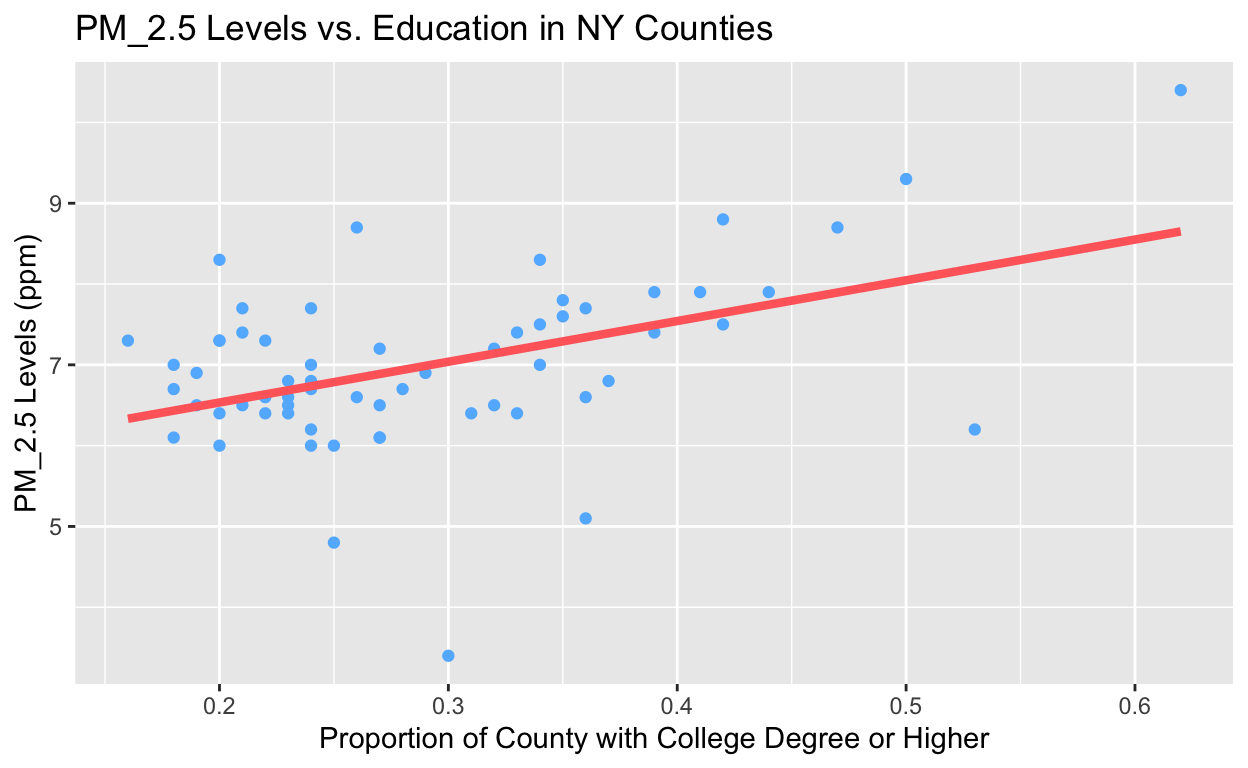
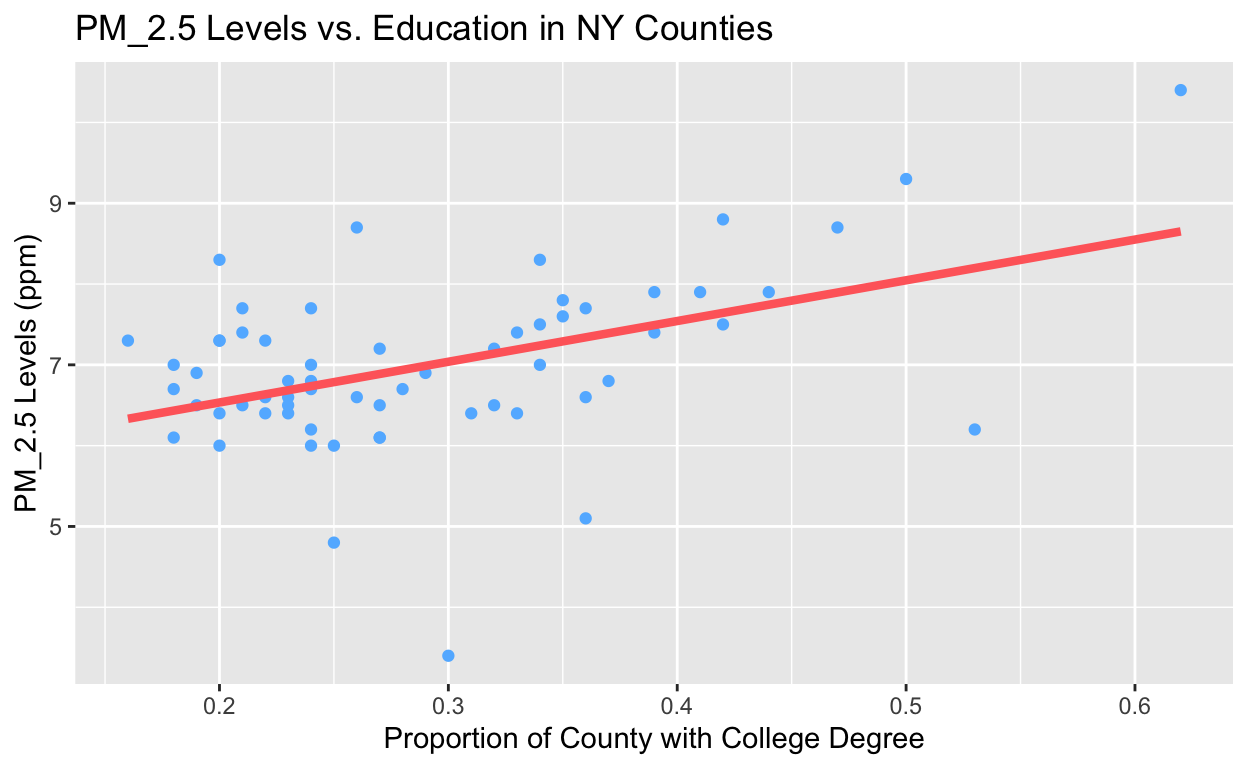
final edits

Changed region(s): [[0.25, 0.9375, 0.7812, 1.0]]

diff --git a/index.html b/index.html
@@ -1520,19 +1520,20 @@ code span.wa { color: #5e5e5e; font-style: italic; } /* Warning */
 
 <div class="d-article">
 <h2 id="introduction">Introduction</h2>
-<p>Environmental issues are increasingly becoming important topics in politics, business, education, and everyday life. One such environmental issue is air pollution, which poses extreme risks to human health, biodiversity, entire ecosystems, and the normal functions of the planet. Their causes are important to understand, as human activities and systems are a major contributor to worsening climate conditions and changes. Which leads to the central research question of this project: Do different socioeconomic factors like unemployment rates, median household income, education levels, poverty, and population density impact levels of air pollution? Which of these factors, if any, impacts air pollution the most? To analyze these relationships, I will be examining data from the 62 counties of New York State. I hypothesize that there will be correlations between these variables and air pollution levels.</p>
+<p>Environmental issues are becoming increasingly important topics in politics, business, education, and everyday life. One such environmental issue is air pollution, which poses extreme risks to human health, biodiversity, entire ecosystems, and the normal functions of the planet. Its causes are important to understand, as human activities and systems are a major contributor to worsening climate conditions and changes. This leads to the central research question of this project: Do different socioeconomic factors like unemployment rates, median household income, education levels, poverty, and population density impact levels of air pollution? Which of these factors, if any, impacts air pollution the most? To analyze these relationships, I will be examining data from the 62 counties of New York State. PM_2.5 is the air pollutant that will be used in this study. I hypothesize that there will be positive correlations between median household income, educational levels, and population density and PM_2.5 levels. I also hypothesize that there will be negative correlations between unemployment rates, poverty and PM_2.5 levels.</p>
 <h2 id="description-of-data">Description of Data</h2>
 <p>My final dataset, called finalData, is composed of data taken from the <a href="https://www.osc.state.ny.us/local-government/data">Office of the New York State Comptroller Website</a> and the <a href="https://www.epa.gov/">Environmental Protection Agency’s Website</a>, and displays the following variables for the year 2021.</p>
 <ol type="1">
-<li>County = Full county name.</li>
-<li>Unemployment = Percentage of county that is unemployed.</li>
-<li>MedianIncome = The median household income for the entire county, in dollars.</li>
-<li>CollegeDegree = The proportion of the population that holds a college-level degree or higher.</li>
-<li>PM_2.5 = The level of fine particles with diameters of less than 2.5 micrometers in parts per million (ppm). PM_2.5 is a common air pollutant.</li>
-<li>Poverty = The percentage of the population of the county that is in poverty.</li>
-<li>PopDensity = The population density of the county, measured in persons per square mile.</li>
+<li>County = Full county name</li>
+<li>Unemployment = Percentage of county that is unemployed</li>
+<li>MedianIncome = The median household income for the entire county, in dollars</li>
+<li>CollegeDegree = The proportion of the population that holds a college-level degree<br />
+</li>
+<li>PM_2.5 = The level of fine particles with diameters of less than 2.5 micrometers, measured in parts per million (ppm)</li>
+<li>Poverty = The percentage of the population of the county that is below the poverty line</li>
+<li>PopDensity = The population density of the county, measured in persons per square mile</li>
 </ol>
-<p>This data represents an observational study. This means that no treatment was given to any place or person, and thus data was collected through observation only. This is a cross sectional-research design, because it is taking data from one point in time, the year 2021, for a defined population of New York State. There are 62 counties total, and the dataset is not missing any values.</p>
+<p>This data represents an observational study. This means that no treatment was given to any place or person. Thus, data was collected through observation only. This is a cross sectional-research design, because it is taking data from one point in time, the year 2021, for a defined population of New York State. There are 62 counties total, and the dataset is not missing any values.</p>
 <h3 id="visualizing-air-pollution-levels">Visualizing Air Pollution Levels</h3>
 <div class="layout-chunk" data-layout="l-body">
 <div class="sourceCode">
@@ -1580,7 +1581,7 @@ code span.wa { color: #5e5e5e; font-style: italic; } /* Warning */
 <div class="sourceCode">
 <pre class="sourceCode r"><code class="sourceCode r"><span><span class='co'>## Population density regression</span></span>
 <span></span>
-<span><span class='va'>pop_reg</span> <span class='op'>&lt;-</span> <span class='fu'><a href='https://rdrr.io/r/stats/lm.html'>lm</a></span><span class='op'>(</span><span class='va'>PM</span> <span class='op'>~</span> <span class='va'>PopDensity</span>, data <span class='op'>=</span> <span class='va'>finalData</span><span class='op'>)</span></span>
+<span><span class='va'>pop_reg</span> <span class='op'>&lt;-</span> <span class='fu'><a href='https://rdrr.io/r/stats/lm.html'>lm</a></span><span class='op'>(</span><span class='va'>PM</span> <span class='op'>~</span> <span class='va'>PopDensity</span>, data <span class='op'>=</span> <span class='va'>finalData</span><span class='op'>)</span> </span>
 <span><span class='va'>pop_reg</span></span></code></pre>
 </div>
 <pre><code>
@@ -1597,7 +1598,7 @@ Coefficients:
 </div>
 <pre><code>[1] 0.5197903</code></pre>
 </div>
-<p>The graph indicates a positive correlation between Population Density and PM_2.5 levels. This can be seen through the line of best fit, represented by the red line. Generally, as population density increases, PM_2.5 levels also increase. The regression results further support this observation. The coefficient for this regression is 4.932e-05 (or 0.00004932). This means that as population density increases by 1 unit (1 person per square mile), PM_2.5 levels increase by 4.932e-05 ppm. This number is small, but because there is such a large range in population density, such a number is expected. Finally, the correlation coefficient (a measure of the strength of a relationship between two variables) between the two variables was 0.520, which indicates a moderately strong association between the two variables.</p>
+<p>The graph indicates a positive correlation between Population Density and PM_2.5 levels. This can be seen through the line of best fit, represented by the red line. Generally, as population density increases, PM_2.5 levels also increase. The regression results further support this observation. The coefficient for this regression is 4.932e-05 (or about 0.00005). This means that as population density increases by 1 unit (1 person per square mile), PM_2.5 levels increase by 0.00005 ppm. This number is small, but because there is such a large range in population density, such a number is expected. Finally, the correlation coefficient (a measure of the strength of a relationship between two variables) between the two variables was about 0.520, which indicates a moderately strong association between the two variables.</p>
 <h3 id="pm_2.5-and-unemployment">PM_2.5 and Unemployment</h3>
 <div class="layout-chunk" data-layout="l-body">
 <div class="sourceCode">
@@ -1634,8 +1635,8 @@ Coefficients:
 </div>
 <pre><code>[1] 0.3437842</code></pre>
 </div>
-<p>From the graph, there seems to be a positive correlation between Unemployment and PM_2.5 levels. This can be seen through the line of best fit. Generally, as unemployment levels increase, PM_2.5 levels also increase. The regression further supports this observation. The coefficient for this regression is about 0.227, which means that as unemployment increases by 1 unit (1 percent), PM_2.5 levels increase by 0.227 ppm. However, the correlation coefficient between the two variables is about 0.344, which indicates a weak association between the two variables. This reflects a weak strength to the relationship between Unemployment and PM_2.5.</p>
-<h3 id="pm_2.5-and-median-income">PM_2.5 and Median Income</h3>
+<p>From the graph, there seems to be a positive correlation between Unemployment and PM_2.5 levels. This can be seen through the line of best fit. Generally, as unemployment levels increase, PM_2.5 levels also increase. The regression further supports this observation. The coefficient for this regression is about 0.227, which means that as unemployment increases by 1 unit (1 percent level), PM_2.5 levels increase by 0.227 ppm. However, the correlation coefficient between the two variables is about 0.344, which indicates a weak association between the two variables. This reflects a weak strength to the relationship between Unemployment and PM_2.5.</p>
+<h3 id="pm_2.5-and-median-household-income">PM_2.5 and Median Household Income</h3>
 <div class="layout-chunk" data-layout="l-body">
 <div class="sourceCode">
 <pre class="sourceCode r"><code class="sourceCode r"><span><span class='co'>## Median Income graph</span></span>
@@ -1671,7 +1672,7 @@ Coefficients:
 </div>
 <pre><code>[1] 0.2532647</code></pre>
 </div>
-<p>From the line of best fit, there seems to be a positive relationship between Median Household Income and PM_2.5 levels. Generally, as Median Household Income increases, PM_2.5 levels tend to increase. Though, the strength relationship does not appear to as strong as the relationships for Population Density and Unemployment. The coefficient for the regression is 2.578e-05 or (0.00002578), which means that as Median Household Income increases by 1 unit (1 dollar), PM_2.5 levels increase by 2.578e-05 ppm. This number is small, but this was expected due to the large range in values for Median Household Income, in a similar way to Population Density. Finally, the correlation coefficient between Median Household Income and PM_2.5 levels was about 0.253, which indicates a weak strength of relationship, supporting the earlier conclusion.</p>
+<p>From the line of best fit, there seems to be a positive relationship between Median Household Income and PM_2.5 levels. Generally, as Median Household Income increases, PM_2.5 levels tend to increase. Though, the relationship’s strength does not appear to as strong as the relationships for Population Density and Unemployment. The coefficient for the regression is 2.578e-05 (or about 0.00003), which means that as Median Household Income increases by 1 unit (1 dollar), PM_2.5 levels increase by 0.00003 ppm. This number is small, but this was expected due to the large range in values for Median Household Income, in a similar way to Population Density. Finally, the correlation coefficient between Median Household Income and PM_2.5 levels was about 0.253, which indicates a weak strength of relationship, supporting the earlier conclusion.</p>
 <h3 id="pm_2.5-and-education">PM_2.5 and Education</h3>
 <div class="layout-chunk" data-layout="l-body">
 <div class="sourceCode">
@@ -1683,7 +1684,7 @@ Coefficients:
 <span>  <span class='fu'><a href='https://ggplot2.tidyverse.org/reference/geom_point.html'>geom_point</a></span><span class='op'>(</span>color <span class='op'>=</span> <span class='st'>"steelblue1"</span><span class='op'>)</span> <span class='op'>+</span></span>
 <span>  <span class='fu'><a href='https://ggplot2.tidyverse.org/reference/geom_smooth.html'>geom_smooth</a></span><span class='op'>(</span>method <span class='op'>=</span> <span class='st'>"lm"</span>, se <span class='op'>=</span> <span class='cn'>FALSE</span>, </span>
 <span>              color <span class='op'>=</span> <span class='st'>"indianred1"</span>, size <span class='op'>=</span> <span class='fl'>1.5</span><span class='op'>)</span> <span class='op'>+</span></span>
-<span>  <span class='fu'><a href='https://ggplot2.tidyverse.org/reference/labs.html'>labs</a></span><span class='op'>(</span>x <span class='op'>=</span> <span class='st'>"Proportion of County with College Degree or Higher"</span>,</span>
+<span>  <span class='fu'><a href='https://ggplot2.tidyverse.org/reference/labs.html'>labs</a></span><span class='op'>(</span>x <span class='op'>=</span> <span class='st'>"Proportion of County with College Degree"</span>,</span>
 <span>       y <span class='op'>=</span> <span class='st'>"PM_2.5 Levels (ppm)"</span>,</span>
 <span>       title <span class='op'>=</span> <span class='st'>"PM_2.5 Levels vs. Education in NY Counties"</span><span class='op'>)</span></span></code></pre>
 </div>
@@ -1691,7 +1692,7 @@ Coefficients:
 <div class="sourceCode">
 <pre class="sourceCode r"><code class="sourceCode r"><span><span class='co'>## Education regression</span></span>
 <span></span>
-<span><span class='va'>income_reg</span> <span class='op'>&lt;-</span> <span class='fu'><a href='https://rdrr.io/r/stats/lm.html'>lm</a></span><span class='op'>(</span><span class='va'>PM</span> <span class='op'>~</span> <span class='va'>CollegeDegree</span>, data <span class='op'>=</span> <span class='va'>finalData</span><span class='op'>)</span></span>
+<span><span class='va'>income_reg</span> <span class='op'>&lt;-</span> <span class='fu'><a href='https://rdrr.io/r/stats/lm.html'>lm</a></span><span class='op'>(</span><span class='va'>PM</span> <span class='op'>~</span> <span class='va'>CollegeDegree</span>, data <span class='op'>=</span> <span class='va'>finalData</span><span class='op'>)</span> </span>
 <span><span class='va'>income_reg</span></span></code></pre>
 </div>
 <pre><code>
@@ -1708,7 +1709,7 @@ Coefficients:
 </div>
 <pre><code>[1] 0.4575398</code></pre>
 </div>
-<p>From the line of best fit, there appears to be a positive relationship between Education levels and PM_2.5 levels. That is, as the proportion of a county with a college degree or higher increases, PM_2.5 levels tend to increase. The regression supports this observation, as the regression coefficient is 5.040. This means that as Education increases by 1 unit (1 additional percentage of the county with a college degree or higher), PM_2.5 levels increase by 5.040 ppm. Finally, the correlation coefficient between the two variables is about 0.458 which indicated a moderately strong relationship between them.</p>
+<p>From the line of best fit, there appears to be a positive relationship between Education levels and PM_2.5 levels. That is, as the proportion of a county with a college degree increases, PM_2.5 levels tend to increase. The regression supports this observation, as the regression coefficient is 5.040. This means that as Education increases by 1 unit (1 additional percentage level of the county with a college degree), PM_2.5 levels increase by 5.040 ppm. Finally, the correlation coefficient between the two variables is about 0.458, which indicates a moderately strong relationship between them.</p>
 <h3 id="pm_2.5-and-poverty">PM_2.5 and Poverty</h3>
 <div class="layout-chunk" data-layout="l-body">
 <div class="sourceCode">
@@ -1745,7 +1746,7 @@ Coefficients:
 </div>
 <pre><code>[1] 0.08537905</code></pre>
 </div>
-<p>From the nearly horizontal line of best fit, there appears to be little correlation between Poverty and PM_2.5 levels, especially in comparison to the other variables. That is, an increase in poverty levels is not really associated with any change in PM_2.5 levels. However, there does appear to be a very minor positive relationship. The regression coefficient supports this observation, as it is 0.028. This means that as Poverty increases by 1 unit (1 additional percentage of the county below the poverty line), PM_2.5 levels increase by 0.028 ppm. Finally, the correlation coefficient between the two variables is about 0.085, which indicates a very weak association between them. This is the smallest correlation coefficient out of all of the relationships analyzed so far.</p>
+<p>From the nearly horizontal line of best fit, there appears to be little correlation between Poverty and PM_2.5 levels, especially in comparison to the other variables. That is, an increase in poverty levels is not really associated with any change in PM_2.5 levels. However, there does appear to be a very minor positive relationship. The regression coefficient supports this observation, as it is about 0.029. This means that as Poverty increases by 1 unit (1 additional percentage level of the county below the poverty line), PM_2.5 levels increase by 0.029 ppm. Finally, the correlation coefficient between the two variables is about 0.085, which indicates a very weak association between them. This is the smallest correlation coefficient out of all of the relationships analyzed so far.</p>
 <h3 id="multiple-regression">Multiple Regression</h3>
 <div class="layout-chunk" data-layout="l-body">
 <div class="sourceCode">
@@ -1771,7 +1772,7 @@ Coefficients:
 </div>
 <pre><code>
 The downloaded binary packages are in
-    /var/folders/2d/6f7wkb7x34qb945g_vvn025m0000gn/T//RtmprbgIaJ/downloaded_packages</code></pre>
+    /var/folders/2d/6f7wkb7x34qb945g_vvn025m0000gn/T//Rtmp6wjJAG/downloaded_packages</code></pre>
 <div class="sourceCode">
 <pre class="sourceCode r"><code class="sourceCode r"><span><span class='kw'><a href='https://rdrr.io/r/base/library.html'>library</a></span><span class='op'>(</span><span class='va'><a href='https://vincentarelbundock.github.io/modelsummary/'>modelsummary</a></span><span class='op'>)</span></span>
 <span></span>
@@ -1951,15 +1952,15 @@ R2 Adj.
 </table>
 </div>
 <p>The multiple regression here analyzes the strength of the relationship between PM_2.5 levels and each variable, taking into account the effects of the other variables on one particular variable. Our previous regressions examined the relationship between one variable and PM_2.5 levels without taking into account how other variables might impact the strength of the relationship.</p>
-<p>The coefficient for the unemployment variable in the multiple regression was 0.119. This means that a one-percentage increase in the county’s unemployed population corresponds with an increase of 0.119 ppm of PM_2.5 levels. The singular regression from earlier had a coefficient of 0.227. While still a positive relationship, with the other variables taken into account, the multiple regression shows a decreased impact of unemployment on PM_2.5 levels.</p>
+<p>The coefficient for the unemployment variable in the multiple regression was 0.119. This means that a one-percentage level increase in the county’s unemployed population corresponds with an increase of 0.119 ppm of PM_2.5 levels. The singular regression from earlier had a coefficient of 0.227. While still a positive relationship, with the other variables taken into account, the multiple regression shows a decreased impact of unemployment on PM_2.5 levels.</p>
 <p>The coefficient for the Median Household Income variable is about 0.000002. This means that a one-dollar increase in the median household income corresponds with an increase of 0.000002 ppm of PM_2.5 levels. The singular regression from earlier had a coefficient of about 0.00003. Similar to unemployment, the multiple regression shows a decreased impact of median household income on PM_2.5 levels. The relationship is still positive, though.</p>
-<p>The coefficient for the CollegeDegree variable is about 3.483. This means that a one-percentage increase in the percentage of a county with a college-degree or higher corresponds with an increase of about 3.483 ppm of PM_2.5 levels. The singular regression from earlier had a coefficient of about 5.040. Similar to unemployment and median household income, the multiple regression shows a decreased impact of CollegeDegree on PM_2.5 levels. The relationship is still positive.</p>
-<p>The coefficient for the poverty variable is about -0.020. This means that a one-percentage increase in the percentage of a county below the poverty line is associated with a decrease of about 0.020 ppm of PM_2.5 levels. The regression from earlier had a coefficient of about 0.028. This is a change in both degree of impact but also direction of relationship. The singular regression had a positive relationship, but the multiple regression shows a negative relationship.</p>
-<p>The coefficient for the Population Density variable is about 0.0003. This means that a one-unit increase in population density is associated with an increase of about 0.00004 ppm of PM_2.5 levels. The regression from earlier had a coefficient of about 0.00005. Similar to the other variables, the multiple regression shows a decreased, but still positive impact of population density on PM_2.5 levels.</p>
-<p>The p-values calculated by the multiple regression represent the probability of obtaining the coefficient, assuming the null hypothesis (that there is no correlation between the variables). In other words, the larger the p-value, the greater the chance of observing no correlation between the variables. And thus, a lower p-value represents greater statistical significance. That is, a greater chance of the coefficients representing the existence of a relationship. The p values for each variable are as follows: unemployment (0.305), MedianIncome (0.883), CollegeDegree (0.034), poverty (0.679), and PopDensity (0.147). From these p-values, we can see that the the order of most to least statistical significance is CollegeDegree, PopDensity, unemployment, poverty, and MedianIncome.</p>
-<p>I would greatly caution against interpreting any of the coefficients as representing a causal effect. There are many other variables to account for that are not in this data set. For example, nearby factories, differences in geographical regions, or variation between seasons. These factors are all potential confounders, meaning that they could impact the data that we currently have. However, the factors analyzed are all important factors to analyze their correlations with air pollution levels.</p>
+<p>The coefficient for the CollegeDegree variable is about 3.483. This means that a one-percentage level increase in the percentage of a county with a college-degree corresponds with an increase of about 3.483 ppm of PM_2.5 levels. The singular regression from earlier had a coefficient of about 5.040. Similar to unemployment and median household income, the multiple regression shows a decreased impact of CollegeDegree on PM_2.5 levels. The relationship is still positive.</p>
+<p>The coefficient for the poverty variable is about -0.020. This means that a one-percentage level increase in the percentage of a county below the poverty line is associated with a decrease of about 0.020 ppm of PM_2.5 levels. The regression from earlier had a coefficient of about 0.029. This is a change in both degree of impact but also direction of relationship. The singular regression had a positive relationship, but the multiple regression shows a negative relationship.</p>
+<p>The coefficient for the Population Density variable is about 0.0003. This means that a one-unit increase in population density is associated with an increase of about 0.00003 ppm of PM_2.5 levels. The regression from earlier had a coefficient of about 0.00005. Similar to the other variables, the multiple regression shows a decreased, but still positive impact of population density on PM_2.5 levels.</p>
+<p>The p-values calculated by the multiple regression represent the probability of obtaining the coefficient, assuming the null hypothesis (that there is no correlation between the variables). The larger the p-value, the greater the chance of observing no correlation between the variables. Thus, a lower p-value represents greater statistical significance, indicative of a greater chance of the coefficients representing the existence of a relationship. The p-values for each variable are as follows: unemployment (0.305), MedianIncome (0.883), CollegeDegree (0.034), poverty (0.679), and PopDensity (0.147). From these p-values, we can see that the the order of most to least statistical significance is CollegeDegree, PopDensity, unemployment, poverty, and MedianIncome.</p>
+<p>I would greatly caution against interpreting any of the coefficients as representing a causal effect. There are many other variables to account for that are not in this data set. For example, nearby factories, differences in geographical regions, or variation between seasons, among others. These factors are all potential confounders, meaning that they could impact the data that we currently have. However, the factors’ correlations with air pollution levels analyzed in this study are all important factors to analyze.</p>
 <h2 id="conclusion">Conclusion</h2>
-<p>The results of the analyses suggest the following: a positive impact of unemployment, median household income, education, and population density on PM_2.5 levels. They suggest a negative impact of poverty on PM_2.5 levels. These observations support my hypothesis. The most statistically significant results are CollegeDegree and Population Density, while the least statistically significant results are poverty and MedianIncome. Unemployment is in the middle. There are a number of potential limitations to this study. For example, a smaller sample size of counties was used than available - a future study could incorporate counties from all over the country. A future dataset could also include other air pollutants to either corroborate or contradict observed results, or additional years. Another limitation of the study is the amount of factors included, and that some excluded factors could be potential confounders - a future study could incorporate different factors like proximity to factories, local legislation that could impact pollution levels, etc. An observational study had to be used and thus cannot control for confounders as well as an experimental study. However, an experimental study testing air pollution levels would be extremely unethical, so future studies should attempt to account for as many confounders as possible. Overall, the analyses of this project support the conclusions that these factors are correlated with air pollution in some way. However, it is extremely risky to assume causality.</p>
+<p>The results of the analyses suggest the following: a positive impact of unemployment, median household income, education, and population density on PM_2.5 levels. They suggest a negative impact of poverty on PM_2.5 levels. These observations support my hypotheses for median household income, education, population density, and poverty. However, they disprove my hypothesis for unemployment. The most statistically significant results are CollegeDegree and Population Density, while the least statistically significant results are poverty and MedianIncome. Unemployment is in the middle. There are a number of potential limitations to this study. For example, a smaller sample size of counties was used than available - a future study could incorporate counties from all over the country. A future dataset could also include other air pollutants to either corroborate or contradict observed results. It could also include additional years. Another limitation of the study is the amount of factors included, and that some excluded factors could be potential confounders. A future study could incorporate different factors like proximity to factories, local legislation that could impact pollution levels, etc. An observational study had to be used and thus cannot control for confounders as well as an experimental study. However, an experimental study testing air pollution levels would be extremely unethical, so future observational studies should attempt to account for as many confounders as possible. Overall, the analyses of this project support the conclusions that these factors are correlated with air pollution in some way. However, it is extremely risky to assume causality.</p>
 <div class="sourceCode" id="cb13"><pre class="sourceCode r distill-force-highlighting-css"><code class="sourceCode r"></code></pre></div>
 <!--radix_placeholder_article_footer-->
 <!--/radix_placeholder_article_footer-->
